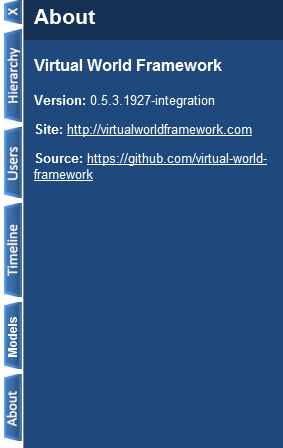
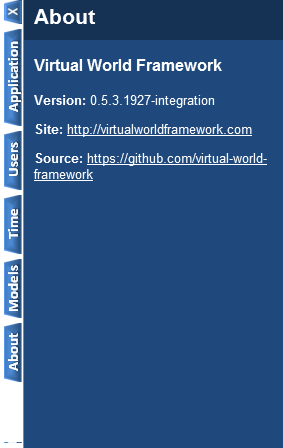
Updating editor documentation page
git-svn-id: http://svn.virtualworldframework.com/vwf/development@2320 775f9103-8eee-4f94-88be-65e0ca6d8b75

Changed region(s): [[0.0, 0.0625, 0.0848, 1.0]]

diff --git a/public/web/docs/editor.md b/public/web/docs/editor.md
@@ -1,7 +1,7 @@
 Editor
 ===================
 -------------------
-The editor capability of the Virtual World Framework allows for the application to be edited in a live environment. Changes to scripts and properties within the editor are replicated across all clients in the system. 
+The editor capability of the Virtual World Framework allows for the application to be edited in a live environment. It provides full control to the user and has the ability to navigate through the current state of the application, consisting of its various nodes and properties. The editor allows changes to be made to the shared simulation by setting properties, calling methods, and firing events. 
 
 -------------------
 
@@ -12,9 +12,9 @@ To open the editor interface, move the mouse to the upper ride side of the scree
 
 The editor consists of five tabs:
 
-* Hierarchy
+* Application
 * Users
-* Timeline
+* Time
 * Models
 * About
 
@@ -22,12 +22,50 @@ To close the editor, rollover just to the left of the upper left corner of the e
 
 -------------------
 
-Hierarchy
+Application
 -------------------
 
-The Hierarchy tab displays a list of all scripts, behaviors, properties, children, methods, and events in the application. In addition, this tab provides a drill down capability on selected items, allowing complete navigation of the scene structure. Some items can also be edited directly with text based inputs.
+The Application tab displays a list of all children, properties, methods, events, behaviors, and scripts in the application. In addition, this tab provides a drill down capability on selected items, allowing complete navigation of the scene structure. Some items can also be edited directly with text based inputs.
 
 <div style='width:100%;text-align:center'><img src='images/editor_hierarchy.png' alt='hierarchy' /></div>
+
+**Properties**
+
+All properties of a given node can be edited while the application is running. Using the editor interface, drill down into the appropriate node, or find the property in the application's property list. The property value can simply be edited by entering or changing the value and clicking the *Enter* key.
+
+<div style='width:100%;text-align:center'><img src='images/editor_properties.png' alt='properties' /></div>
+
+Properties may be booleans, numbers, or strings, and their values are represented in form they would be as a javascript format. Strings must be quoted, and arrays must be intered in the form of *[ 0, 0, 0 ]*. Values can also be null or undefined.
+
+**Methods**
+
+All methods associated with the current node are listed in the editor. They can be called directly from the main window, if they do not require parameters, by clicking the *Call* button. If parameters are required for a method, a white arrow will appear by rolling over the right of the *Call* button. Clicking the white arrow will drill down into the method, and parameters can be specified in the given text fields. The *Call* button can then be clicked from the header. To go back to the node, select the white back arrow in the upper left corner. 
+
+<div style='width:100%;text-align:center'>
+<img src='images/editor_method.png' alt='method' />
+<img src='images/editor_method_2.png' alt='method' />
+</div>
+
+**Events**
+
+All events associated with the current node are listed in the editor. They can be fired directly from the main window, if they do not require parameters, by clicking the *Fire* button.  If parameters are required for an event, a white arrow will appear by rolling over the right of the *Fire* button. Clicking the white arrow will drill down into the event, and parameters can be specified in the given text fields. The *Fire* button can then be clicked from the header. To go back to the node, select the white back arrow in the upper left corner. 
+
+<div style='width:100%;text-align:center'>
+<img src='images/editor_event.png' alt='event' />
+<img src='images/editor_event_2.png' alt='event' />
+</div>
+
+**Children**
+
+All children of the current node are listed in the editor, and each can be drilled into to see a level deeper in the tree structure. Each child node is marked with a white arrow to the right of the child's name. Click on any child in the list in order to drill down. The new node information will be displayed including any scripts, behaviors, properties, children, methods, and events associated with the node. 
+
+<div style='width:100%;text-align:center'><img src='images/editor_children.png' alt='children' /></div>
+
+**Behaviors**
+
+Behaviors can be attached to any node in the scene. For all nodes with behaviors, upon drilling into the selected node, a list of all implemented behaviors will be displayed. 
+
+<div style='width:100%;text-align:center'><img src='images/editor_behavior.png' alt='behavior' /></div>
 
 **Scripts**
 
@@ -37,51 +75,13 @@ Scripts can be both created and edited in the editor interface.
 
 *Creating New Script*
 
-To create a new script, click on the *New Script* item listed first. Click in the text area that appears to give it focus. The editor window will expand to allow more room for typing the script. A new script can be added here that extends an existing function, for example, mouse events, or can be brand new. Once the script is ready to go, click on the *Create* button at the bottom of the editor. The script will be created on the current node of the editor. For example, if no drill downs have occurred, the script will be directly on the application. On the other hand, if the user drilled down to a child node, the script will be created directly on that child. To exit to script editor, either close the editor by selecting the *X* tab or selecting the back arrow in the upper left corner to drill back up to the node. 
+To create a new script on a node in the application hierarchy, click on the *New Script* item listed first. Click in the text area that appears to give it focus. The editor window will expand to allow more room for typing the script. A new script can be added here that extends an existing function, for example, mouse events, or can be brand new. Once the script is ready to go, click on the *Create* button at the bottom of the editor. To exit to script editor, either close the editor by selecting the *X* tab or selecting the back arrow in the upper left corner to drill back up to the node. 
 
 *Editing Script*
 
-To edit an existing script, click on the corresponding script listed in the editor on the appropriate node. The script editor will open, displaying the current script. Click in the text area to expand the editor working area. Make any updates as needed, and click the *Update* button at the bottom of the editor. The script will update on the current node, and will be replicated across all clients currently in the application. To exit to script editor, either close the editor by selecting the *X* tab or selecting the back arrow in the upper left corner to drill back up to the node. 
+To edit an existing script, click on the corresponding script listed in the editor on the appropriate node. The script editor will open, displaying the current script. Click in the text area to expand the editor working area. Make any updates as needed, and click the *Update* button at the bottom of the editor. To exit to script editor, either close the editor by selecting the *X* tab or selecting the back arrow in the upper left corner to drill back up to the node. 
 
 <div style='width:100%;text-align:center'><img src='images/editor_script.png' alt='script' /></div>
-
-**Behaviors**
-
-Behaviors can be attached to any node in the scene. For all nodes with behaviors, upon drilling into the selected node, a list of all implemented behaviors will be displayed. 
-
-<div style='width:100%;text-align:center'><img src='images/editor_behavior.png' alt='behavior' /></div>
-
-**Properties**
-
-All properties of a given node can be edited while the application is running. Using the editor interface, drill down into the appropriate node, or find the property in the application's property list. The property value can simply be edited by entering or changing the value and clicking the *Enter* key.
-
-<div style='width:100%;text-align:center'><img src='images/editor_properties.png' alt='properties' /></div>
-
-Numerical and boolean properties as well as values of null and undefined can be entered as is directly in the text box. String based values can be entered with quotations, and arrays can be entered directly in the form of *[ 0, 0, 0 ]*.
-
-**Children**
-
-All children of the current node are listed in the editor, and each can be drilled into to see a level deeper in the tree structure. Each child node is marked with a white arrow to the right of the child's name. Click on any child in the list in order to drill down. The new node information will be displayed including any scripts, behaviors, properties, children, methods, and events associated with the node. 
-
-<div style='width:100%;text-align:center'><img src='images/editor_children.png' alt='children' /></div>
-
-**Methods**
-
-All methods associated with the current node are listed in the editor. They can be called directly from the main window, or drilled into to set specific parameters. Clicking the *Call* button will call the method directly. If the mouse rolls over just to the right of the button, a white arrow will appear. Clicking the white arrow will drill down into the method. Here parameters can be specified in the given text fields. The *Call* button can then be clicked from the header. To go back to the node, select the white back arrow in the upper left corner. 
-
-<div style='width:100%;text-align:center'>
-<img src='images/editor_method.png' alt='method' />
-<img src='images/editor_method_2.png' alt='method' />
-</div>
-
-**Events**
-
-All events associated with the current node are listed in the editor. They can be fired directly from the main window, or drilled into to set specific parameters. Clicking the *Fire* button will fire the method directly. If the mouse rolls over just to the right of the button, a white arrow will appear. Clicking the white arrow will drill down into the event. Here parameters can be specified in the given text fields. The *Fire* button can then be clicked from the header. To go back to the node, select the white back arrow in the upper left corner. 
-
-<div style='width:100%;text-align:center'>
-<img src='images/editor_event.png' alt='event' />
-<img src='images/editor_event_2.png' alt='event' />
-</div>
 
 -------------------
 
@@ -94,10 +94,10 @@ The Users tab shows a list of all user IDs currently in the application instance
 
 -------------------
 
-Timeline
+Time
 -------------------
 
-The Timeline tab contains a pause and stop button which, when pressed, will pause and stop the application clock, respectively. In this case, the pause button will change to a play button which will allow the clock to be started again. Additionally, the Timeline tab also allows the clock speed to be adjusted to be faster or slower, depending on where the slider is dragged. The rate will be numerically displayed below in relation to the normal time.
+The Time tab contains a pause and stop button which, when pressed, will pause and stop the application clock, respectively. In this case, the pause button will change to a play button which will allow the clock to be started again. Additionally, the Timeline tab also allows the clock speed to be adjusted to be faster or slower, depending on where the slider is dragged. The rate will be numerically displayed below in relation to the normal time.
 
 <div style='width:100%;text-align:center'><img src='images/editor_timeline.png' alt='timeline' /></div>
 
@@ -106,7 +106,7 @@ The Timeline tab contains a pause and stop button which, when pressed, will paus
 Models
 -------------------
 
-The Models tab allows for the creation of new children in the scene. Upon opening the tab, a list of all available models on the server is displayed. Clicking on any of the listed models will drill down into that model, allowing the user to set some initial properties, including the rotation, scale, and translation offset(distance from the drop location). After setting these properties, the user can then drag the *Drag to Create* area and drop it on any location in the scene. Upon the drop, the new object will be created with the specified properties. 
+The Models tab is a listing of assets on the server that are available for dragging into the application, creating new children in the scene. Upon opening the tab, a list of all available models on the server is displayed. Clicking on any of the listed models will drill down into that model, allowing the user to set properties of the node to be created, including the rotation, scale, and translation offset (distance from the drop location). After setting these properties, the user can then drag the *Drag to Create* area and drop it on any location in the scene. Upon the drop, the new object will be created with the specified properties. 
 
 <div style='width:100%;text-align:center'>
 <img src='images/editor_models.png' alt='models' />
